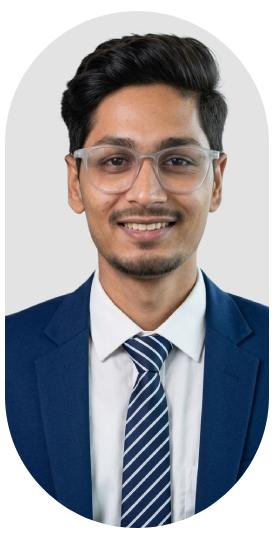
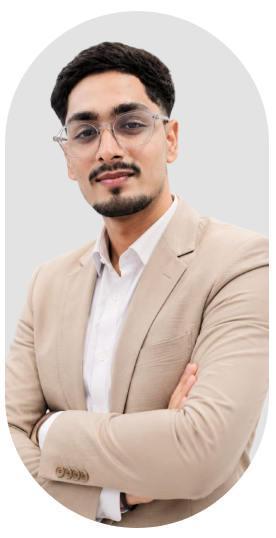
rinku photo added

diff --git a/src/components/our_team.tsx b/src/components/our_team.tsx
@@ -17,6 +17,11 @@ const Our_team = () => {
     img: "/team/shivam.png",
   },
   {
+    name: "Shishir",
+    designation: "CTO",
+    img: "/team/shisir.png",
+  },
+  {
     name: "Shruti",
     designation: "Chief Financial Officer",
     img: "/team/shruti.png",
@@ -56,6 +61,11 @@ const Our_team = () => {
     name: "Musharraf",
     designation: "Developer",
     img: "/team/Musaaraf.png",
+  },
+  {
+    name: "Rinku",
+    designation: "SR. Graphic Designer",
+    img: "/team/rinku.png",
   },
   
   {

diff --git a/src/components/contact-form.tsx b/src/components/contact-form.tsx
@@ -59,7 +59,11 @@ const ContactForm = ({
       const sendRes = await fetch("/contact.php", {
         method: "POST",
         credentials: "same-origin",
-        body: new URLSearchParams(form),
+        body: new URLSearchParams({
+          ...form,
+          page_url: window.location.href,
+          timezone: Intl.DateTimeFormat().resolvedOptions().timeZone,
+        }),
       })
       const sendData = await sendRes.json()
       if (sendData.success) {

diff --git a/src/components/plan-quote-modal.tsx b/src/components/plan-quote-modal.tsx
@@ -110,6 +110,8 @@ const PlanQuoteModal = ({ planName, onClose }: { planName: string; onClose: () =
           service: `Website Design – ${planName}`,
           budget: "",
           message: buildMessage(),
+          page_url: window.location.href,
+          timezone: Intl.DateTimeFormat().resolvedOptions().timeZone,
         }),
       })
       const data = await res.json()

diff --git a/public/contact.php b/public/contact.php
@@ -33,48 +33,159 @@ function client_ip(): string {
     return 'Unknown';
 }
 
-function client_country(string $ip): string {
-    // Cloudflare (or similar CDN) already resolves this on every request — free and instant.
-    if (!empty($_SERVER['HTTP_CF_IPCOUNTRY'])) {
-        return clean_field($_SERVER['HTTP_CF_IPCOUNTRY']);
+function client_location(string $ip): array {
+    $location = ['city' => 'Unknown', 'country' => 'Unknown'];
+
+    // Cloudflare (or similar CDN) already resolves the country on every request — free and instant.
+    if (!empty($_SERVER['HTTP_CF_IPCOUNTRY']) && $_SERVER['HTTP_CF_IPCOUNTRY'] !== 'XX') {
+        $location['country'] = clean_field($_SERVER['HTTP_CF_IPCOUNTRY']);
     }
-    // Best-effort fallback lookup. Must never block or break form submission.
+
+    // Best-effort lookup for city (and a country fallback). Must never block or break form submission.
     if (filter_var($ip, FILTER_VALIDATE_IP, FILTER_FLAG_NO_PRIV_RANGE | FILTER_FLAG_NO_RES_RANGE)) {
         $ctx = stream_context_create(['http' => ['timeout' => 2]]);
-        $resp = @file_get_contents("http://ip-api.com/json/{$ip}?fields=status,country", false, $ctx);
+        $resp = @file_get_contents("http://ip-api.com/json/{$ip}?fields=status,country,city", false, $ctx);
         if ($resp) {
             $data = json_decode($resp, true);
-            if (($data['status'] ?? '') === 'success' && !empty($data['country'])) {
-                return $data['country'];
+            if (($data['status'] ?? '') === 'success') {
+                if (!empty($data['city'])) {
+                    $location['city'] = $data['city'];
+                }
+                if ($location['country'] === 'Unknown' && !empty($data['country'])) {
+                    $location['country'] = $data['country'];
+                }
             }
         }
     }
-    return 'Unknown';
+
+    return $location;
 }
 
-function contact_email_text(string $name, string $email, string $phone, string $service, string $budget, string $message, string $ip, string $country): string {
+function submitted_at(string $tzName): string {
+    try {
+        $tz = new DateTimeZone($tzName !== '' ? $tzName : 'UTC');
+    } catch (Exception $e) {
+        $tz = new DateTimeZone('UTC');
+    }
+    $dt = new DateTime('now', $tz);
+    return $dt->format('d M Y, h:i A') . ' (' . $tz->getName() . ', UTC' . $dt->format('P') . ')';
+}
+
+function parse_user_agent(string $ua): array {
+    if ($ua === '') {
+        return ['browser' => 'Unknown', 'os' => 'Unknown', 'device' => 'Unknown'];
+    }
+
+    if (preg_match('/Edg(?:A|iOS)?\/[\d.]+/i', $ua)) {
+        $browser = 'Edge';
+    } elseif (preg_match('/OPR\/[\d.]+|Opera/i', $ua)) {
+        $browser = 'Opera';
+    } elseif (preg_match('/SamsungBrowser\/[\d.]+/i', $ua)) {
+        $browser = 'Samsung Internet';
+    } elseif (preg_match('/Firefox\/[\d.]+/i', $ua) && !preg_match('/Seamonkey/i', $ua)) {
+        $browser = 'Firefox';
+    } elseif (preg_match('/Chrome\/[\d.]+|CriOS\/[\d.]+/i', $ua)) {
+        $browser = 'Chrome';
+    } elseif (preg_match('/Version\/[\d.]+.*Safari\//i', $ua)) {
+        $browser = 'Safari';
+    } else {
+        $browser = 'Unknown';
+    }
+
+    if (preg_match('/iPad/i', $ua)) {
+        $os = 'iOS';
+        $device = 'Tablet (iPad)';
+    } elseif (preg_match('/iPhone/i', $ua)) {
+        $os = 'iOS';
+        // Apple's browsers do not expose the specific iPhone model in the user agent.
+        $device = 'Mobile (iPhone)';
+    } elseif (preg_match('/Android\s[\d.]+;\s*([^;)]+)\)/i', $ua, $m)) {
+        $os = 'Android';
+        $model = trim(preg_replace('/\s+Build\/.*/i', '', $m[1]));
+        $device = ($model !== '' && strcasecmp($model, 'Android') !== 0)
+            ? "Mobile (Android \xE2\x80\x93 {$model})"
+            : 'Mobile (Android)';
+    } elseif (preg_match('/Windows NT/i', $ua)) {
+        $os = 'Windows';
+        $device = 'Desktop (Windows)';
+    } elseif (preg_match('/Macintosh|Mac OS X/i', $ua)) {
+        $os = 'macOS';
+        // Browsers don't distinguish MacBook from iMac/Mac mini in the user agent.
+        $device = 'Desktop (Mac)';
+    } elseif (preg_match('/CrOS/i', $ua)) {
+        $os = 'ChromeOS';
+        $device = 'Desktop (Chromebook)';
+    } elseif (preg_match('/Linux/i', $ua)) {
+        $os = 'Linux';
+        $device = 'Desktop (Linux)';
+    } else {
+        $os = 'Unknown';
+        $device = 'Unknown';
+    }
+
+    return ['browser' => $browser, 'os' => $os, 'device' => $device];
+}
+
+function contact_email_text(array $lead, array $meta): string {
     $body  = "You have a new message from the website contact form:\n\n";
-    $body .= "Name: {$name}\n";
-    $body .= "Email: {$email}\n";
-    $body .= "Phone: " . ($phone !== '' ? $phone : '-') . "\n";
-    $body .= "Service: {$service}\n";
-    $body .= "Budget: " . ($budget !== '' ? $budget : '-') . "\n";
-    $body .= "IP Address: {$ip}\n";
-    $body .= "Country: {$country}\n";
-    $body .= "Message:\n{$message}\n";
+    $body .= "Name: {$lead['name']}\n";
+    $body .= "Email: {$lead['email']}\n";
+    $body .= "Phone: " . ($lead['phone'] !== '' ? $lead['phone'] : '-') . "\n";
+    $body .= "Service: {$lead['service']}\n";
+    $body .= "Budget: " . ($lead['budget'] !== '' ? $lead['budget'] : '-') . "\n\n";
+    $body .= "Page URL: {$meta['pageUrl']}\n";
+    $body .= "Submitted At: {$meta['submittedAt']}\n";
+    $body .= "Location: {$meta['city']}, {$meta['country']}\n";
+    $body .= "Browser: {$meta['browserLine']}\n";
+    $body .= "Device: {$meta['device']}\n";
+    $body .= "IP Address: {$meta['ip']}\n\n";
+    $body .= "Message:\n{$lead['message']}\n";
     return $body;
 }
 
-function contact_email_html(string $name, string $email, string $phone, string $service, string $budget, string $message, string $ip, string $country): string {
-    $n = htmlspecialchars($name);
-    $e = htmlspecialchars($email);
-    $p = htmlspecialchars($phone !== '' ? $phone : '-');
-    $s = htmlspecialchars($service);
-    $b = htmlspecialchars($budget !== '' ? $budget : '-');
-    $ipEsc = htmlspecialchars($ip);
-    $cEsc = htmlspecialchars($country);
-    $m = nl2br(htmlspecialchars($message));
+function contact_email_html(array $lead, array $meta): string {
+    $n = htmlspecialchars($lead['name']);
+    $e = htmlspecialchars($lead['email']);
+    $p = htmlspecialchars($lead['phone'] !== '' ? $lead['phone'] : '-');
+    $s = htmlspecialchars($lead['service']);
+    $b = htmlspecialchars($lead['budget'] !== '' ? $lead['budget'] : '-');
+    $m = nl2br(htmlspecialchars($lead['message']));
+
+    $pageUrl = htmlspecialchars($meta['pageUrl']);
+    $submittedAt = htmlspecialchars($meta['submittedAt']);
+    $location = htmlspecialchars(trim("{$meta['city']}, {$meta['country']}", ', '));
+    $browserLine = htmlspecialchars($meta['browserLine']);
+    $device = htmlspecialchars($meta['device']);
+    $ipEsc = htmlspecialchars($meta['ip']);
     $year = date('Y');
+
+    $rows = [
+        ['Name', $n],
+        ['Email', "<a href=\"mailto:{$e}\" style=\"color:#F37021;text-decoration:none;\">{$e}</a>"],
+        ['Phone', $p],
+        ['Service Interested In', $s],
+        ['Monthly Budget', $b],
+        ['Page URL', $pageUrl],
+        ['Submitted At', $submittedAt],
+        ['Approximate Location', $location],
+        ['Browser', $browserLine],
+        ['Device', $device],
+        ['IP Address', $ipEsc],
+    ];
+
+    $rowsHtml = '';
+    $last = count($rows) - 1;
+    foreach ($rows as $i => [$label, $value]) {
+        $border = $i === $last ? '' : 'border-bottom:1px solid #e5e7eb;';
+        $rowsHtml .= <<<ROW
+                    <tr>
+                      <td style="padding:14px 22px;{$border}">
+                        <div style="color:#9ca3af;font-size:10px;font-weight:700;text-transform:uppercase;letter-spacing:.7px;margin-bottom:3px;">{$label}</div>
+                        <div style="color:#111827;font-size:14.5px;font-weight:600;">{$value}</div>
+                      </td>
+                    </tr>
+ROW;
+    }
 
     return <<<HTML
 <!DOCTYPE html>
@@ -115,44 +226,7 @@ function contact_email_html(string $name, string $email, string $phone, string $
               <tr>
                 <td style="padding:20px 40px 0;">
                   <table width="100%" cellpadding="0" cellspacing="0" style="background:#f8fafc;border:1.5px solid #e5e7eb;border-radius:14px;overflow:hidden;">
-
-                    <tr>
-                      <td style="padding:14px 22px;border-bottom:1px solid #e5e7eb;">
-                        <div style="color:#9ca3af;font-size:10px;font-weight:700;text-transform:uppercase;letter-spacing:.7px;margin-bottom:3px;">Name</div>
-                        <div style="color:#111827;font-size:14.5px;font-weight:600;">{$n}</div>
-                      </td>
-                    </tr>
-                    <tr>
-                      <td style="padding:14px 22px;border-bottom:1px solid #e5e7eb;">
-                        <div style="color:#9ca3af;font-size:10px;font-weight:700;text-transform:uppercase;letter-spacing:.7px;margin-bottom:3px;">Email</div>
-                        <div style="color:#111827;font-size:14.5px;font-weight:600;"><a href="mailto:{$e}" style="color:#F37021;text-decoration:none;">{$e}</a></div>
-                      </td>
-                    </tr>
-                    <tr>
-                      <td style="padding:14px 22px;border-bottom:1px solid #e5e7eb;">
-                        <div style="color:#9ca3af;font-size:10px;font-weight:700;text-transform:uppercase;letter-spacing:.7px;margin-bottom:3px;">Phone</div>
-                        <div style="color:#111827;font-size:14.5px;font-weight:600;">{$p}</div>
-                      </td>
-                    </tr>
-                    <tr>
-                      <td style="padding:14px 22px;border-bottom:1px solid #e5e7eb;">
-                        <div style="color:#9ca3af;font-size:10px;font-weight:700;text-transform:uppercase;letter-spacing:.7px;margin-bottom:3px;">Service Interested In</div>
-                        <div style="color:#111827;font-size:14.5px;font-weight:600;">{$s}</div>
-                      </td>
-                    </tr>
-                    <tr>
-                      <td style="padding:14px 22px;border-bottom:1px solid #e5e7eb;">
-                        <div style="color:#9ca3af;font-size:10px;font-weight:700;text-transform:uppercase;letter-spacing:.7px;margin-bottom:3px;">Monthly Budget</div>
-                        <div style="color:#111827;font-size:14.5px;font-weight:600;">{$b}</div>
-                      </td>
-                    </tr>
-                    <tr>
-                      <td style="padding:14px 22px;">
-                        <div style="color:#9ca3af;font-size:10px;font-weight:700;text-transform:uppercase;letter-spacing:.7px;margin-bottom:3px;">IP Address / Country</div>
-                        <div style="color:#111827;font-size:14.5px;font-weight:600;">{$ipEsc} &middot; {$cEsc}</div>
-                      </td>
-                    </tr>
-
+{$rowsHtml}
                   </table>
                 </td>
               </tr>
@@ -188,32 +262,47 @@ function contact_email_html(string $name, string $email, string $phone, string $
 HTML;
 }
 
-$name    = clean_field($_POST['name'] ?? '');
-$email   = clean_field($_POST['email'] ?? '');
-$phone   = clean_field($_POST['phone'] ?? '');
-$service = clean_field($_POST['service'] ?? '');
-$budget  = clean_field($_POST['budget'] ?? '');
-$message = trim((string) ($_POST['message'] ?? ''));
+$lead = [
+    'name'    => clean_field($_POST['name'] ?? ''),
+    'email'   => clean_field($_POST['email'] ?? ''),
+    'phone'   => clean_field($_POST['phone'] ?? ''),
+    'service' => clean_field($_POST['service'] ?? ''),
+    'budget'  => clean_field($_POST['budget'] ?? ''),
+    'message' => trim((string) ($_POST['message'] ?? '')),
+];
 
-if ($name === '' || $email === '' || $service === '' || $message === '') {
+if ($lead['name'] === '' || $lead['email'] === '' || $lead['service'] === '' || $lead['message'] === '') {
     http_response_code(400);
     echo json_encode(['success' => false, 'message' => 'Please fill in all required fields.']);
     exit;
 }
 
-if (!filter_var($email, FILTER_VALIDATE_EMAIL)) {
+if (!filter_var($lead['email'], FILTER_VALIDATE_EMAIL)) {
     http_response_code(400);
     echo json_encode(['success' => false, 'message' => 'Please enter a valid email address.']);
     exit;
 }
 
 $ip = client_ip();
-$country = client_country($ip);
+$location = client_location($ip);
+$ua = parse_user_agent((string) ($_SERVER['HTTP_USER_AGENT'] ?? ''));
 
-$subject = "New Contact Form Submission from {$name}";
+$meta = [
+    'ip'           => $ip,
+    'city'         => $location['city'],
+    'country'      => $location['country'],
+    'pageUrl'      => clean_field($_POST['page_url'] ?? ($_SERVER['HTTP_REFERER'] ?? 'Unknown')),
+    'submittedAt'  => submitted_at(clean_field($_POST['timezone'] ?? '')),
+    'browserLine'  => $ua['browser'] !== 'Unknown' && $ua['os'] !== 'Unknown'
+        ? "{$ua['browser']} on {$ua['os']}"
+        : $ua['browser'],
+    'device'       => $ua['device'],
+];
 
-$textBody = contact_email_text($name, $email, $phone, $service, $budget, $message, $ip, $country);
-$htmlBody = contact_email_html($name, $email, $phone, $service, $budget, $message, $ip, $country);
+$subject = "New Contact Form Submission from {$lead['name']}";
+
+$textBody = contact_email_text($lead, $meta);
+$htmlBody = contact_email_html($lead, $meta);
 
 $boundary = md5(uniqid((string) time()));
 
@@ -227,7 +316,7 @@ $body .= "--{$boundary}--";
 
 $fromDomain = $_SERVER['SERVER_NAME'] ?? 'webandadssolution.com';
 $headers   = "From: Website Contact Form <no-reply@{$fromDomain}>\r\n";
-$headers  .= "Reply-To: {$email}\r\n";
+$headers  .= "Reply-To: {$lead['email']}\r\n";
 $headers  .= "MIME-Version: 1.0\r\n";
 $headers  .= "Content-Type: multipart/alternative; boundary=\"{$boundary}\"\r\n";
 
